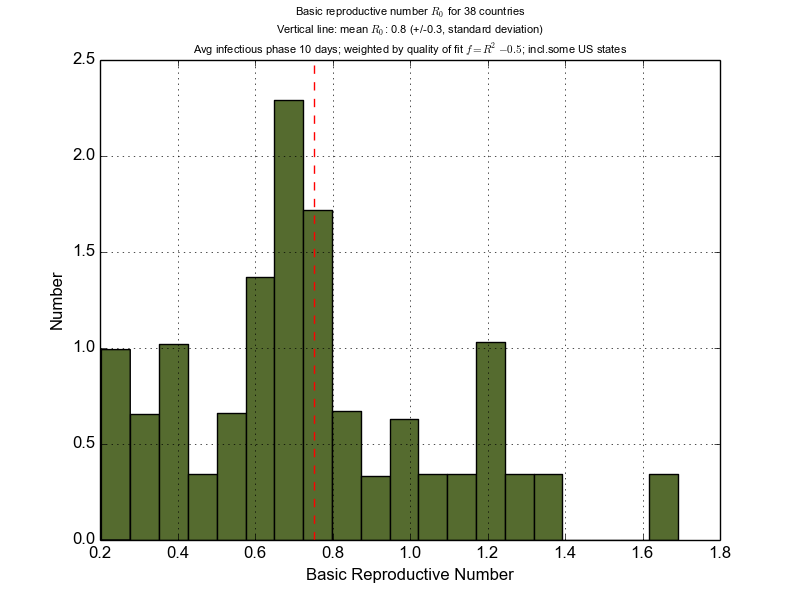
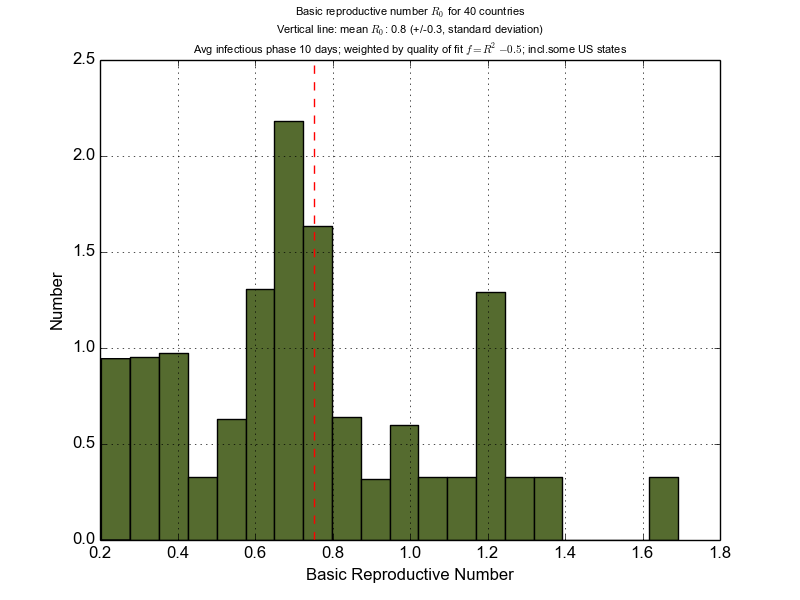
added Guatemala and Iran

diff --git a/cov_model/statsanalysis/country_parameters.py b/cov_model/statsanalysis/country_parameters.py
@@ -7,15 +7,18 @@ COUNTRY_PARAMS = \
      "Bulgaria": ["BGR", 7051.],
      "Belgium": ["BEL", 11482.],
      "Canada": ["CAN", 37074.],
+     "China": ["CHN", 1427647.],
      "Colombia": ["COL", 49661.],
      "Denmark": ["DNK", 5752.],
      "France": ["FRA", 64990.],
      "Finland": ["FIN", 5522.],
      "Germany": ["DEU", 83124.],
      "Greece": ["GRC", 10522.],
+     "Guatemala": ["GTM", 17247.],
      "Hungary": ["HUN", 9707.],
      "India": ["IND", 1352642.],
      "Indonesia": ["IDN", 267670.],
+     "Iran": ["IRN", 81800.],
      "Ireland": ["IRL", 4818.],
      "Italy": ["ITA", 60627.],
      "Israel": ["ISR", 8381.],
@@ -30,6 +33,7 @@ COUNTRY_PARAMS = \
      "Poland": ["POL", 37921.],
      "Romania": ["ROU", 19506.],
      "Russia": ["RUS", 145734.],
+     "South Korea": ["KOR", 51171.],
      "Spain": ["ESP", 46692.],
      "Sweden": ["SWE", 9971.],
      "Switzerland": ["CHE", 8525.],
